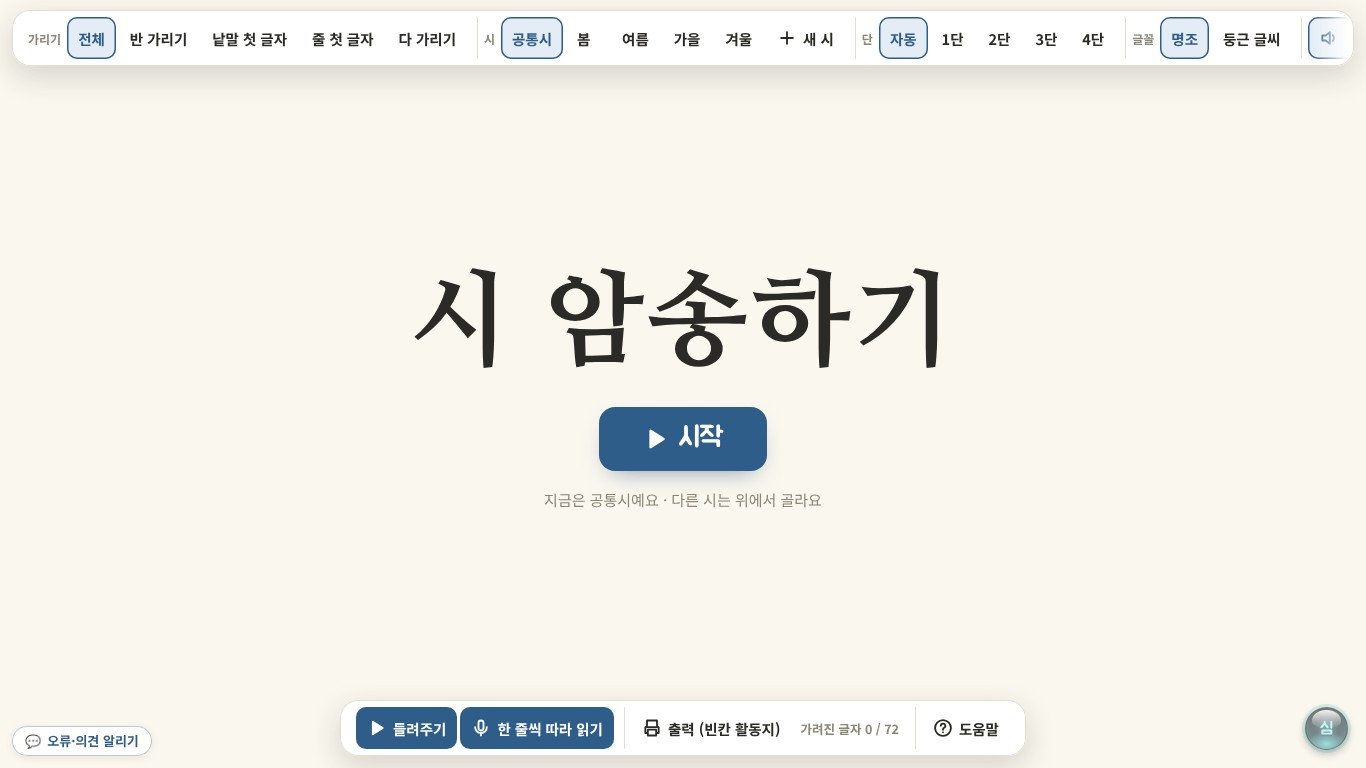
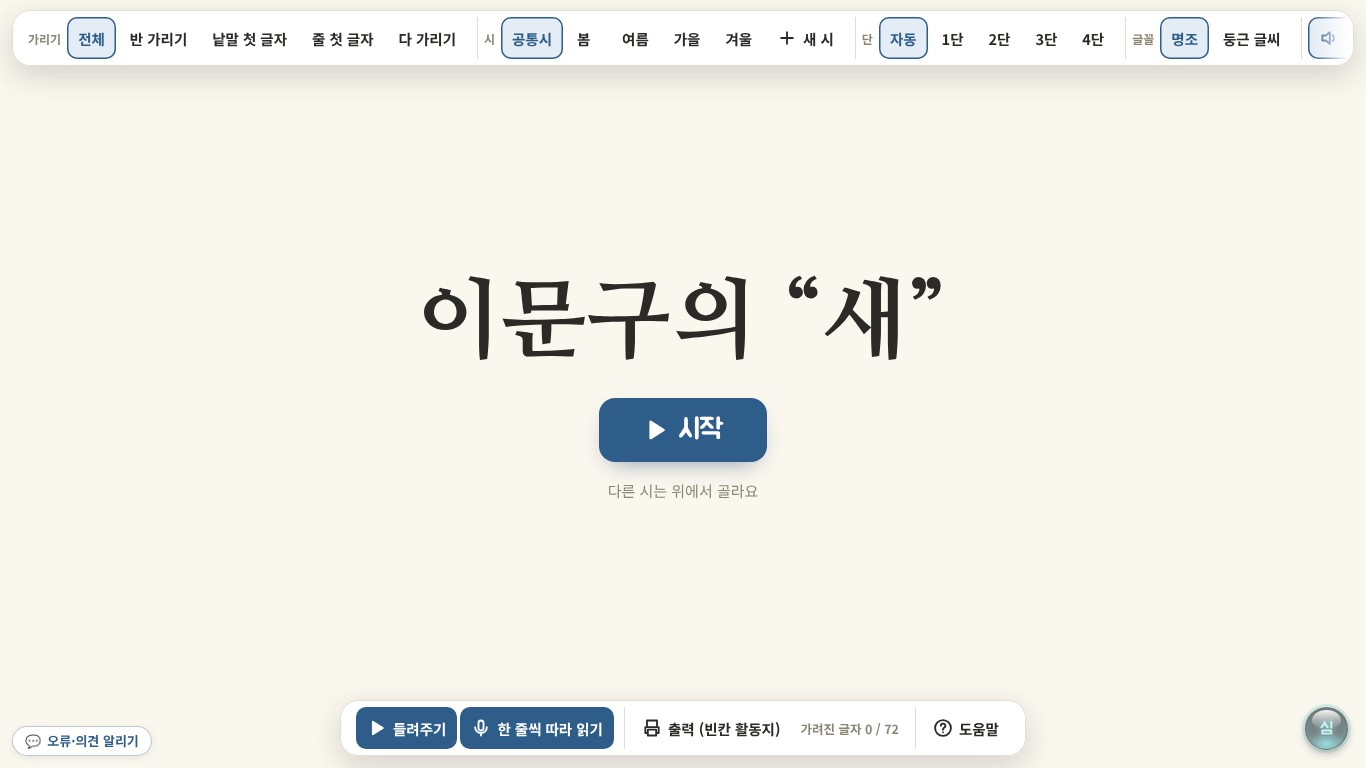
004 시 암송: 첫 화면 메뉴 제목을 고른 시(지은이의 “제목”)로, 시·가리기를 골라도 첫 화면에 머물고 시작으로 들어감
Claude-Session: https://claude.ai/code/session_01BEDYje1QcQE5aM142U4boM

Changed region(s): [[0.3075, 0.3438, 0.7072, 0.6562]]

diff --git a/004/poem-recite.html b/004/poem-recite.html
@@ -30,6 +30,7 @@ svg.ic{fill:none;stroke:currentColor;stroke-width:2.2;stroke-linecap:round;strok
 #cover{display:none;position:fixed;inset:0;align-items:center;justify-content:center;flex-direction:column;gap:18px}
 body.cover #cover{display:flex}
 body.cover #app{display:none}
+#cover h1.poemname{font-size:clamp(40px,6.4vw,88px);letter-spacing:2px;max-width:calc(100% - 48px);text-align:center;text-wrap:balance;word-break:keep-all;line-height:1.3}
 #cover h1{cursor:pointer;-webkit-user-select:none;user-select:none;font-family:"Nanum Myeongjo",serif;font-weight:800;font-size:clamp(52px,8vw,104px);letter-spacing:4px;margin:0;color:var(--ink)}
 /* 첫 화면 시작 단추: 메뉴가 열렸을 때만 (깜빡이지 않고 그대로) */
 #coverStart,#coverHint{display:none}
@@ -189,7 +190,7 @@ body.admin #adminBtn{opacity:.6;border-color:rgba(10,20,26,.8);
 
 <section id="cover"><h1 id="coverTitle" role="button" tabindex="0">시 암송하기</h1>
   <button type="button" id="coverStart"><svg class="ic" viewBox="0 0 24 24"><path d="M7 4.5v15l12-7.5z" fill="currentColor"/></svg><span id="coverStartLbl">시작</span></button>
-  <p id="coverHint">지금은 공통시예요 · 다른 시는 위에서 골라요</p></section>
+  <p id="coverHint">다른 시는 위에서 골라요</p></section>
 
 <div id="app">
   <div class="content">
@@ -740,7 +741,14 @@ function setAdmin(on){
 }
 
 /* ================= 교사 메뉴 ================= */
+/* 첫 화면 제목: 메뉴가 열리면 지금 고른 시를 '지은이의 “제목”'으로 */
+function coverTitleText(){
+  if(!S.admin) return '시 암송하기';
+  const d=poemData(S.active), au=String(d.author||'').trim(), t=String(d.title||'').trim()||'제목 없음';
+  return (au&&!/^\(?작가 미상\)?$/.test(au)?au+'의 ':'')+'\u201C'+t+'\u201D';
+}
 function renderDocks(){
+  { const ct=$('coverTitle'), tx=coverTitleText(); if(ct.textContent!==tx) ct.textContent=tx; ct.classList.toggle('poemname',S.admin); }
   const b=(act,label,pressed,extra='')=>`<button type="button" data-a="${act}" ${pressed!=null?`aria-pressed="${pressed}"`:''} ${extra}>${label}</button>`;
   const keepL=[...document.querySelectorAll('.dock .sc')].map(x=>x.scrollLeft);
   $('dockTop').innerHTML='<div class="sc">'+
@@ -793,8 +801,8 @@ document.addEventListener('pointerdown',e=>{ if(!S.more) return; if(e.target.clo
 function onDock(e){
   const btn=e.target.closest('button[data-a]'); if(!btn||btn.disabled) return;
   const [a,v]=btn.dataset.a.split(':');
-  /* 첫 화면에서 시·가리기 단계·들려주기를 고르면 시 화면으로 */
-  if(['poem','stage','read','echo'].includes(a)) leaveCover();
+  /* 첫 화면에서 들려주기·따라 읽기를 누르면 시 화면으로 */
+  if(['read','echo'].includes(a)) leaveCover(); /* 시·가리기를 고르면 첫 화면 제목만 바뀌고, 시작을 누르면 시 화면 */
   if(a==='stage') applyStage(v);
   if(a==='poem'){ stopReading(); S.active=v; store.set('active',v); chooseEngine(); rebuildEntries(); }
   if(a==='new') openModal(null);
@@ -1030,7 +1038,7 @@ $('delBtn').onclick=()=>{
   if(S.active===editing){ S.active='common'; store.set('active','common'); }
   closeModal(); afterPoemChange();
 };
-function afterPoemChange(){ rebuildEntries(); leaveCover(); renderDocks(); }
+function afterPoemChange(){ rebuildEntries(); renderDocks(); } /* 첫 화면이면 제목만 바뀌고, 시작으로 들어감 */
 
 /* ================= 출력: 지금 가린 모습 그대로 빈칸 활동지 (A4 한 장) ================= */
 function printSheet(){
@@ -1075,7 +1083,7 @@ document.addEventListener('scroll',()=>{ if(SPOT.el) placeSpot(); },true);
 
 /* ================= 도움말: 교사 메뉴를 말풍선으로 하나씩 ================= */
 const TOUR_STEPS=[
-  {el:'body.cover #coverStart', t:'시작', x:'공통시가 골라져 있어요. 다른 시나 가리기를 고르면 바로 시 화면으로 가고, 그대로 시작하려면 이 단추를 눌러요. 메뉴가 닫히고 전체 화면이 돼요.'},
+  {el:'body.cover #coverStart', t:'시작', x:'위에 지금 고른 시가 나와 있어요. 위 메뉴에서 다른 시나 가리기를 고른 뒤 이 단추를 누르면 메뉴가 닫히고 전체 화면으로 시가 나와요.'},
   {el:'#gStage', t:'가리기', x:'한꺼번에 지우지 않고 조금씩 지워 가며 외워요. 전체 → 반 가리기 → 낱말 첫 글자 → 줄 첫 글자 → 다 가리기.'},
   {el:'#gPoem', t:'시', x:'공통시와 계절시 가운데 골라요. "+ 새 시"로 직접 입력하거나 .txt 파일을 불러와요. 넣은 시를 고르면 "고치기"가 나와요.'},
   {el:'#gCols', t:'단', x:'시를 몇 단으로 나눠 보일지 정해요. "자동"은 화면에 가장 크게 보이는 쪽을 골라요.'},

diff --git a/004/poem-recite_guide.html b/004/poem-recite_guide.html
@@ -19,7 +19,7 @@
 <img src="https://shim-sung-hyun.github.io/web_app/004/poem-recite02.jpg" alt="관리 메뉴" style="width:100%;border-radius:10px;border:1px solid #e4ded2;margin-top:10px;">
 <ol style="margin:8px 0 0;padding-left:22px;">
 <li>앱을 열면 <b>"시 암송하기"</b>가 크게 보여요. 이 글자(또는 오른쪽 아래 유리알 <b>관리 버튼</b>)를 누르면 제목은 그대로 있고 위아래에 <b>관리 메뉴</b>가 나와요.</li>
-<li>제목 아래 <b>▶ 시작</b>을 누르면 메뉴가 닫히고 전체 화면으로 공통시가 나와요. 메뉴에서 <b>시</b>나 <b>가리기 단계</b>를 고르거나 <b>들려주기</b>를 눌러도 시 화면이 나와요(메뉴는 열린 채). 글꼴·단·목소리는 시를 고르기 전에 정해 두어도 돼요.</li>
+<li>메뉴가 열리면 제목 자리에 지금 고른 시가 <b>이문구의 “새”</b>처럼 나와요. 위 메뉴에서 다른 시나 가리기 단계를 고르면 제목이 바뀌고, 아래 <b>▶ 시작</b>을 누르면 메뉴가 닫히고 전체 화면으로 그 시가 나와요. <b>들려주기</b>를 누르면 메뉴가 열린 채로 시 화면이 나와요. 글꼴·단·목소리는 시를 고르기 전에 정해 두어도 돼요.</li>
 <li>관리 버튼을 한 번 누르면 메뉴가 사라지고 전체 화면으로 수업해요. 수업 중에도 언제든 한 번 눌러 메뉴를 열고 닫아요. 메뉴를 열어 둔 채로 시 화면의 글자를 눌러 가려도 돼요.</li>
 </ol>
 

diff --git a/004/poem-recite_manual.html b/004/poem-recite_manual.html
@@ -16,7 +16,7 @@
 <table style="width:100%;border-collapse:collapse;"><tr>
 <td style="width:34%;vertical-align:middle;padding-right:12px;"><img src="https://shim-sung-hyun.github.io/web_app/004/poem-recite02.jpg" alt="선생님 메뉴" style="width:100%;border-radius:8px;border:1px solid #e4ded2;"></td>
 <td style="vertical-align:middle;"><div style="font-weight:700;font-size:18px;margin-bottom:4px;">선생님 메뉴</div>
-<div><b>시 암송하기</b>를 누르면 위아래에 메뉴 → <b>▶ 시작</b>(또는 다른 시를 고르면 바로 시 화면)</div>
+<div><b>시 암송하기</b>를 누르면 위아래에 메뉴와 고른 시(이문구의 “새”) → 시를 고르고 <b>▶ 시작</b></div>
 <div style="font-size:14px;color:#6E6A5E;">가리기 · 시 · 단 · 글꼴 · 소리 · 들려주기 · 따라 읽기 · 빈칸 활동지 출력 · 도움말<br>오른쪽 아래 유리알 한 번 = 메뉴 열고 닫기</div></td>
 </tr></table>
 </div>
